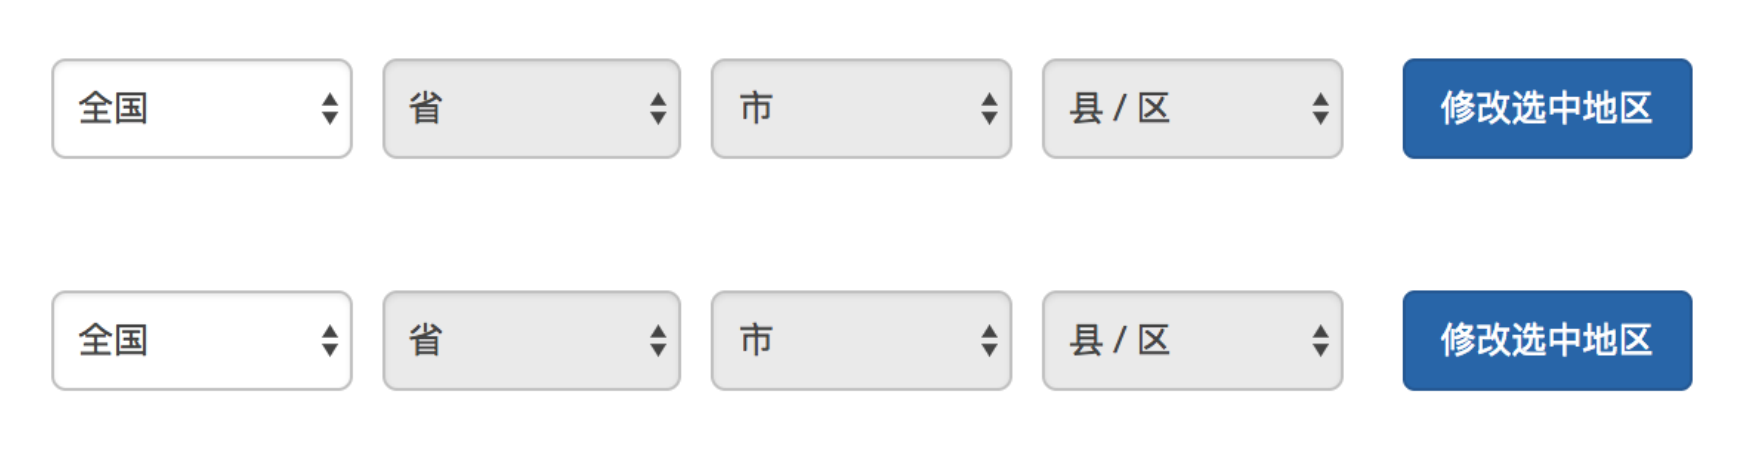
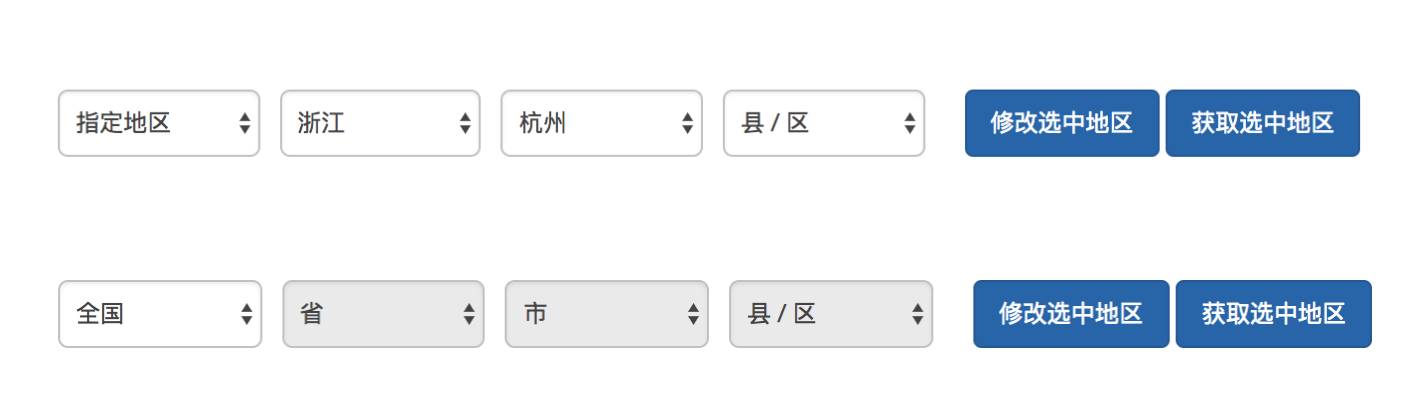
change img & change default to region

diff --git a/lib/index.js b/lib/index.js
@@ -551,7 +551,7 @@ Object.defineProperty(__webpack_exports__, "__esModule", { value: true });
         },
         min: {
             type: String,
-            default: 'province' }
+            default: 'region' }
     },
     created: function created() {
         if (this.area !== '全国') {

diff --git a/src/component/main.vue b/src/component/main.vue
@@ -54,7 +54,7 @@
             },
             min: {
                 type: String,
-                default: 'province' // province city region
+                default: 'region' // province city region
             }
         },
         created() {
